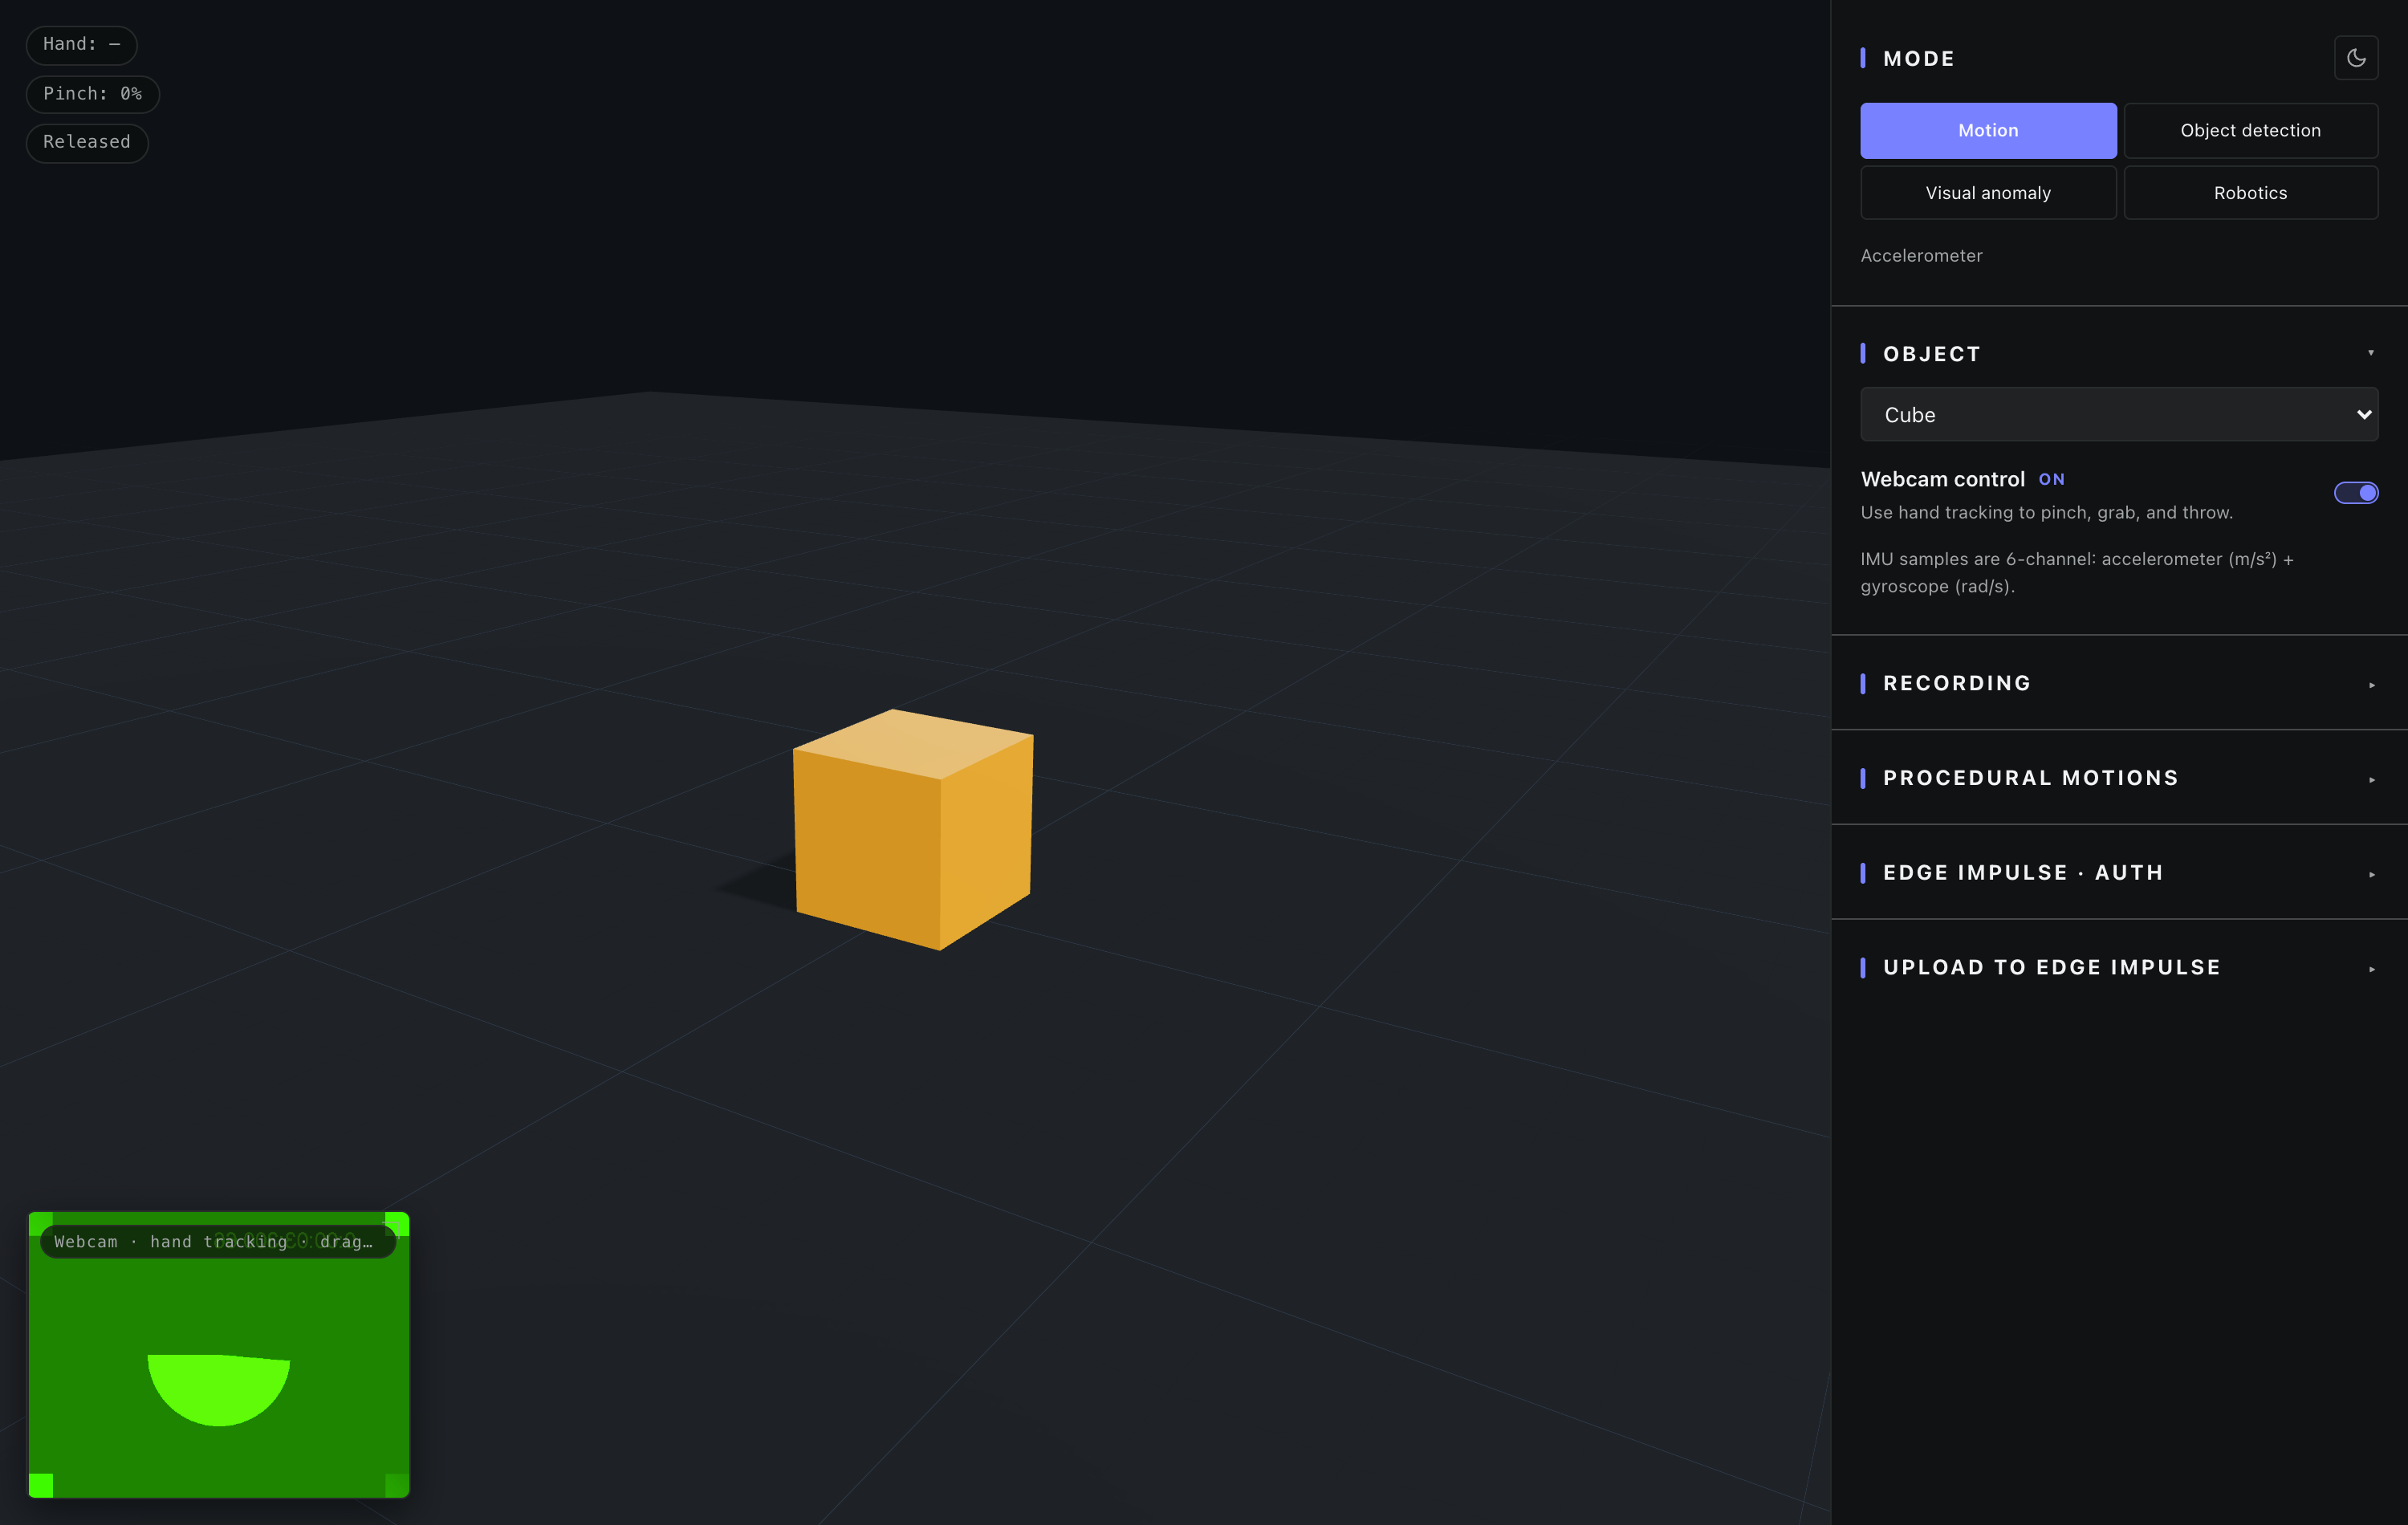
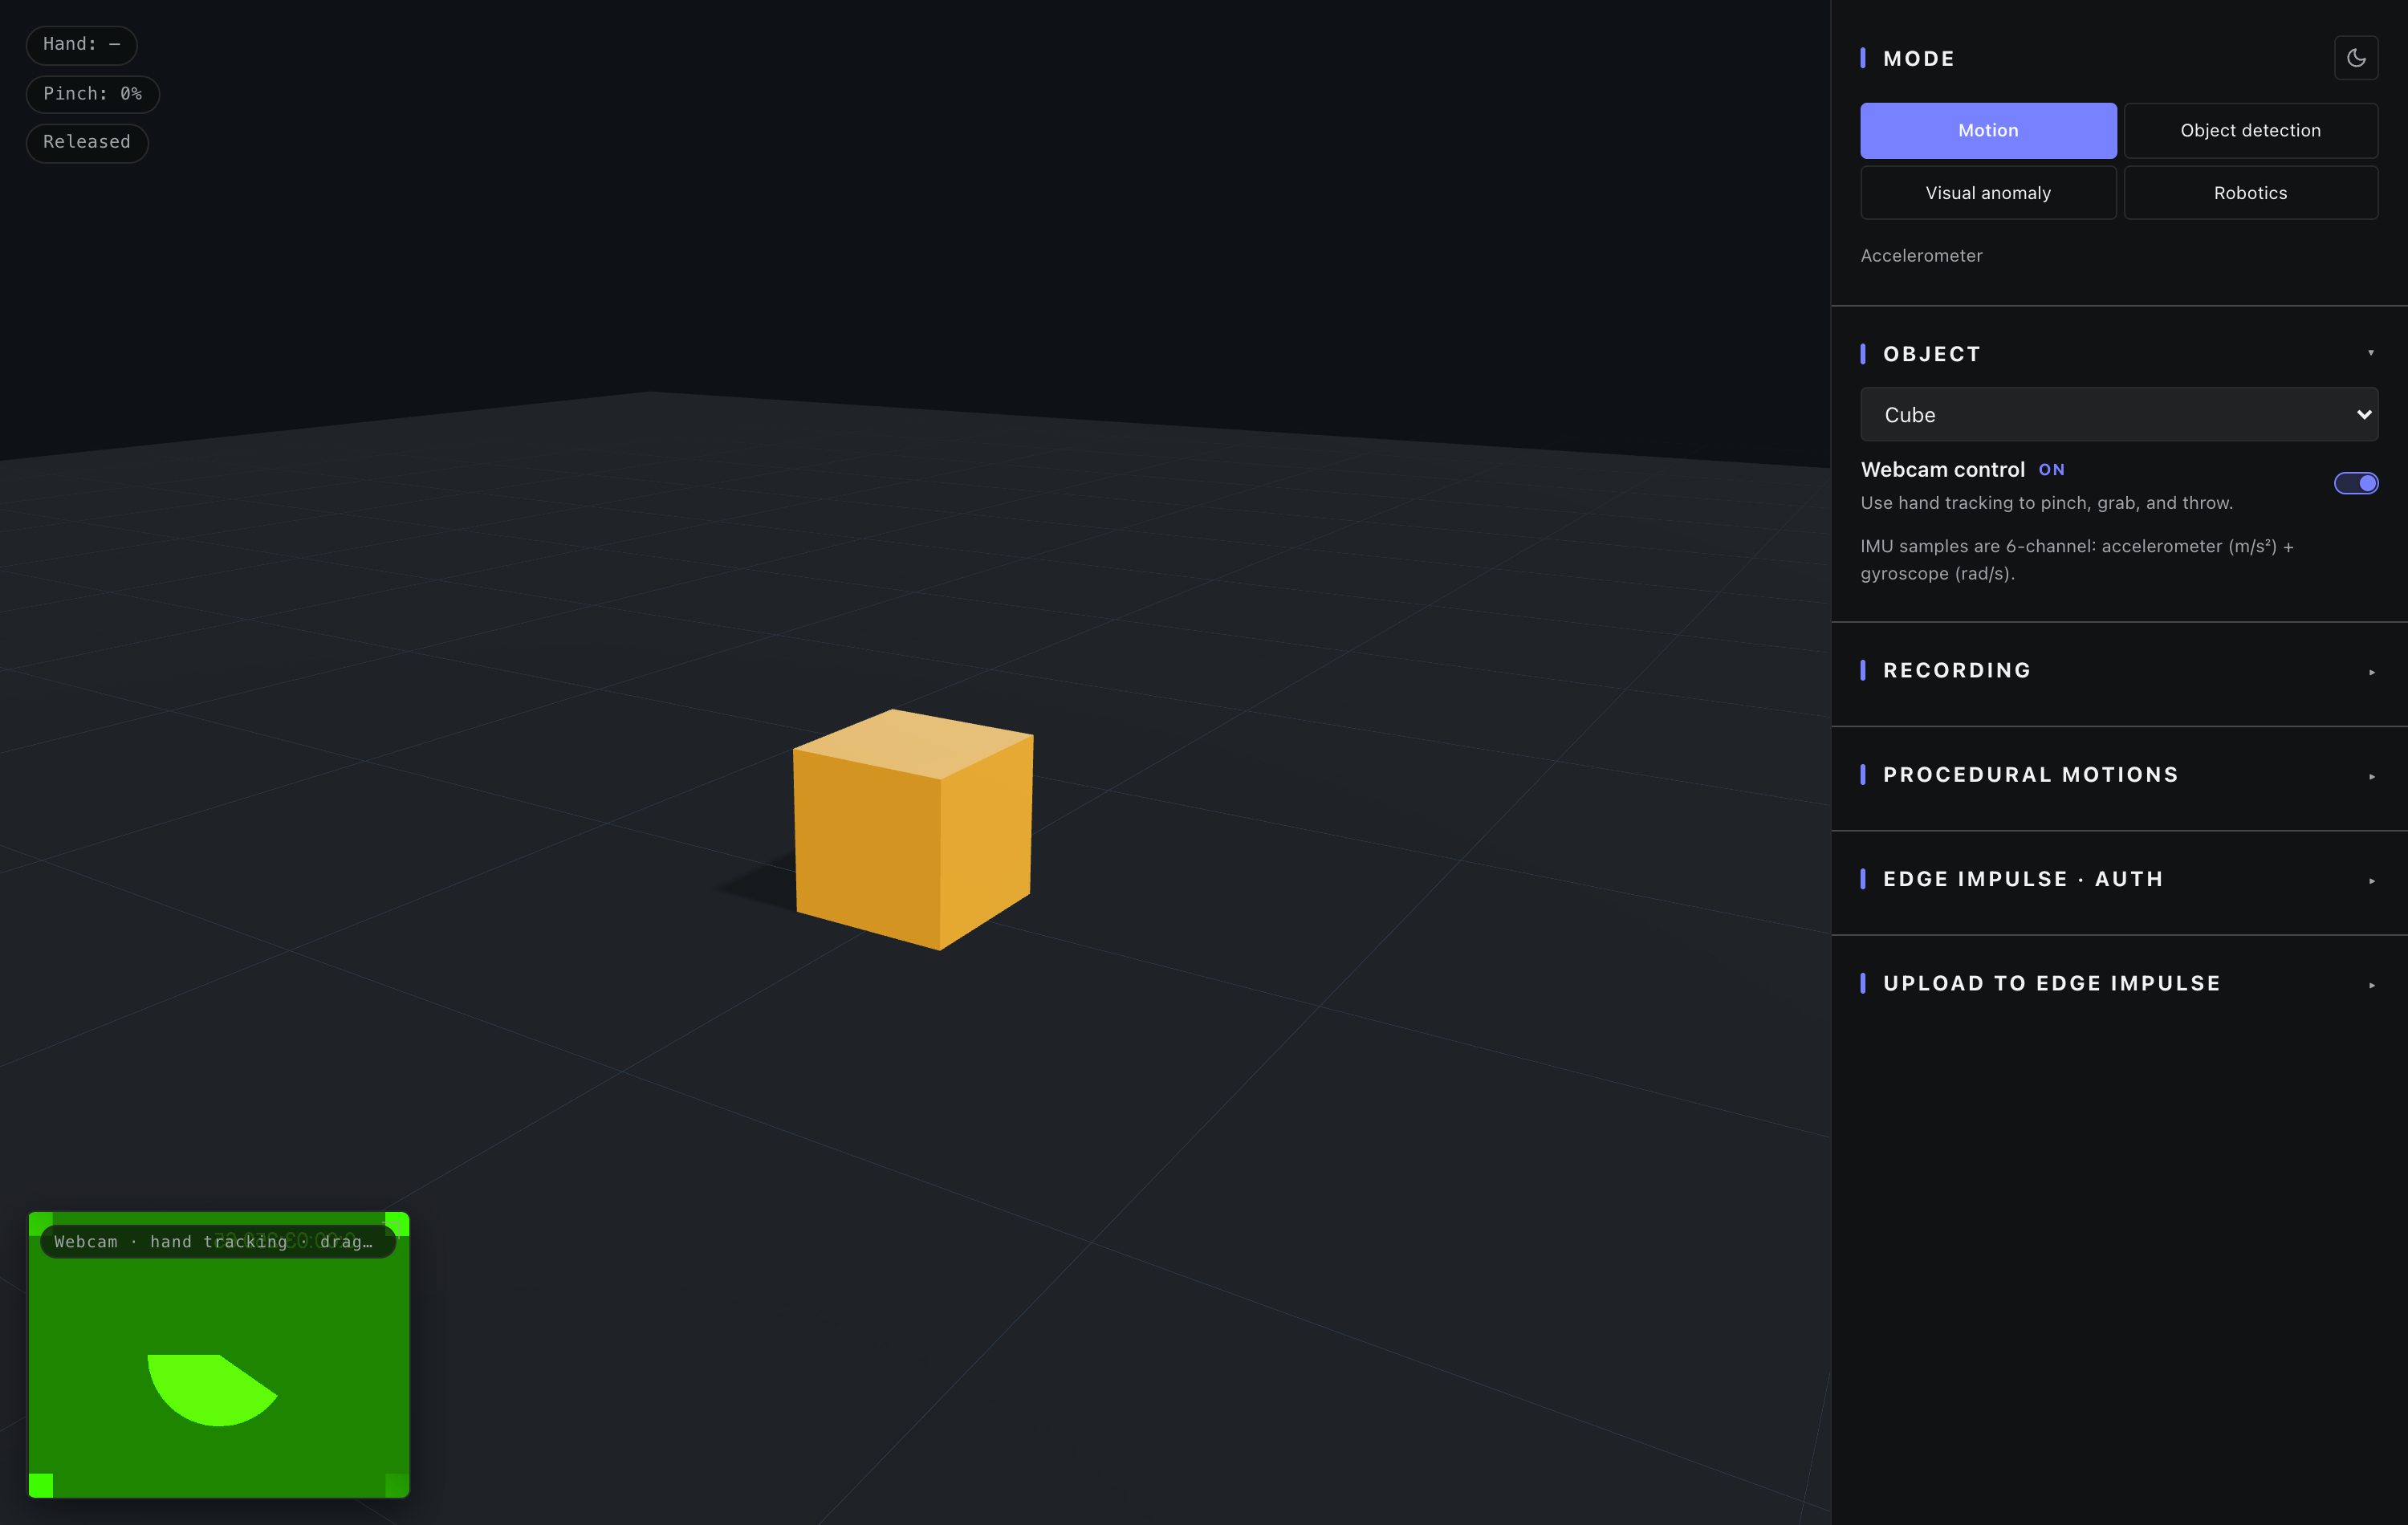
Cone physics: composite collider so it settles like a cone
The single-cylinder collider settled with both ends at the same
height regardless of body orientation; when the body tipped on its
side, the cone visual's apex ended up dangling above the floor while
the uniform-radius cylinder propped the base up. Replace with two
stacked cylinders that mirror the cone's silhouette: a fat 0.5-radius
base disc at the cone's base end and a narrower 0.2-radius upper body
toward the apex.

Mass split (0.08 + 0.04 = 0.12 kg, same total) keeps the COM near
the body origin where the IMU site lives. Friction unchanged, so
captured IMU traces against models trained on the old mass / shape
should still classify correctly.

Docs + screenshots:
- README: rewrite the Realism bullet to reflect the now-shipping
  Diffusion path (first 3 images via HF Inference, then Random
  fallback; HF_TOKEN / HF_REALISM_MODEL env vars).
- docs/internals.md: list api/realism-diffusion.ts in the project
  tree.
- Regenerated motion-mode hero + card screenshots.

diff --git a/src/lib/mujoco/motionMjcf.ts b/src/lib/mujoco/motionMjcf.ts
@@ -54,16 +54,27 @@ function shapeGeom(kind: ObjectKind): { geom: string; mass: number } {
         mass: 0.12,
       };
     case 'cone':
-      // MuJoCo has no built-in cone geom; approximate as a cylinder
-      // sized to the cone's bounding cylinder so when the body tips
-      // onto its side the cone visual doesn't dip past the collider
-      // and clip through the floor. A capsule with the same radius
-      // would have hemispherical caps that read as "bouncy" against
-      // a flat plane, so cylinder is the better collision proxy.
-      // Three.js coneGeometry(0.5, 1.0) lives on local-Y, which means
-      // the cylinder needs a 90° X-rotation quat to align.
+      // MuJoCo has no cone primitive — and a single cylinder collider
+      // gave the cone unphysical resting poses: when the body tipped
+      // on its side, the uniform-radius cylinder held both ends at
+      // the same height while the cone visual's apex dangled in mid-
+      // air. Approximate the cone as two stacked cylinders — a fat
+      // base disc and a narrower upper body — so the wider base side
+      // settles naturally (a real cone is heavier toward the base).
+      //
+      // Mass split (0.08 / 0.04) roughly mirrors the volume ratio of
+      // the bottom vs top halves of a cone (~7:1 inertia at the base),
+      // dialed back so the COM stays close to the body origin where
+      // the IMU site lives.
+      //
+      // Three.js coneGeometry(0.5, 1.0) lives on local-Y with the
+      // base at -Y and apex at +Y, so the cylinders' default Z axis
+      // gets the same 90° X-rotation quat as the other Y-aligned
+      // primitives in this file.
       return {
-        geom: `<geom name="g_body" type="cylinder" size="0.5 0.5" quat="0.7071 0.7071 0 0" mass="0.12" rgba="0.96 0.62 0.04 1" friction="0.6 0.05 0.005"/>`,
+        geom:
+          `<geom name="g_cone_base" type="cylinder" size="0.5 0.2" pos="0 -0.3 0" quat="0.7071 0.7071 0 0" mass="0.08" rgba="0.96 0.62 0.04 1" friction="0.6 0.05 0.005"/>` +
+          `<geom name="g_cone_body" type="cylinder" size="0.2 0.3" pos="0 0.2 0" quat="0.7071 0.7071 0 0" mass="0.04" rgba="0.96 0.62 0.04 1" friction="0.6 0.05 0.005"/>`,
         mass: 0.12,
       };
     case 'torus':

diff --git a/docs/internals.md b/docs/internals.md
@@ -70,6 +70,14 @@ src/
 │   └── zipReader.ts              // Browser zip reader (STORE + DEFLATE via DecompressionStream)
 └── store/
     └── useStore.ts               // Zustand store (single source of truth)
+
+api/
+└── realism-diffusion.ts          // Vercel Function — proxies a single img2img call
+                                  // to Hugging Face Inference (default model
+                                  // timbrooks/instruct-pix2pix). Keeps HF_TOKEN
+                                  // server-side; called by realism.ts for the first
+                                  // 3 images of each batch, then falls back to
+                                  // the local Random pixel pass.
 ```
 
 ## Physics + sensors: one pipeline (MuJoCo WASM)

diff --git a/README.md b/README.md
@@ -59,7 +59,9 @@ Built with AI coding assistants.
 - Virtual capture camera (XYZ + target + FOV) with frustum gizmo.
 - Single-shot capture downloads as a zip with the PNG + matching `bounding_boxes.labels` sidecar; batch capture randomizes camera / lighting / object positions and zips the whole batch.
 - Direct upload to EI with bounding boxes attached; one-click retrain.
-- **Realism post-process** — optional per-capture pixel pass that adds film grain, chromatic aberration, vignette, and color jitter to narrow the sim-to-real gap. Geometry never moves, so bounding boxes stay byte-perfect against the modified PNG. Random pass runs client-side; Diffusion mode is reserved for a future server-side img2img endpoint.
+- **Realism post-process** — optional per-capture pass that narrows the sim-to-real gap. Two modes:
+  - **Random** runs client-side: film grain + chromatic aberration + vignette + color jitter on the raw PNG. Geometry never moves, so bounding boxes stay byte-perfect.
+  - **Diffusion** routes the first 3 images of each capture / batch through a Vercel Function (`api/realism-diffusion.ts`) that calls Hugging Face Inference for real img2img (`timbrooks/instruct-pix2pix` by default; override with `HF_REALISM_MODEL`). Any image past the budget — and any image where the HF call errors or rate-limits — falls back to the Random pass. Set `HF_TOKEN` in Vercel env vars for higher quota. Bounding boxes may drift slightly under diffusion; use for visual prototyping, not detection ground truth.
 - Scene state persists across reloads (primitives, USDZ assets, camera settings).
 
 **Edge Impulse model inference (vision + robot POV)**